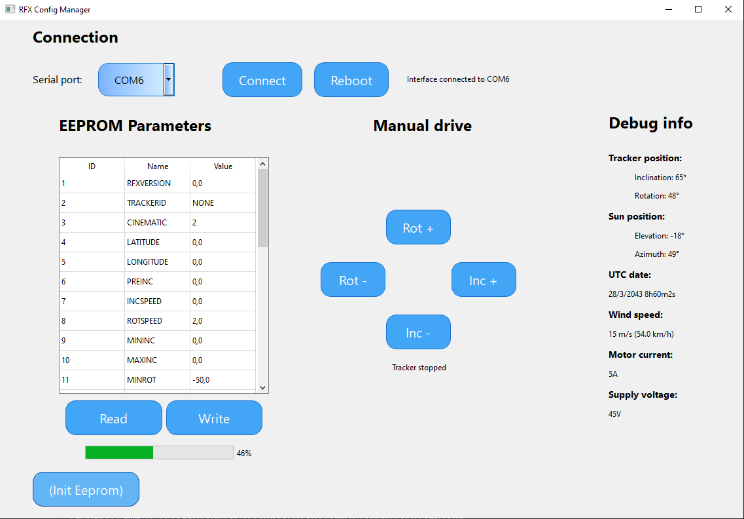
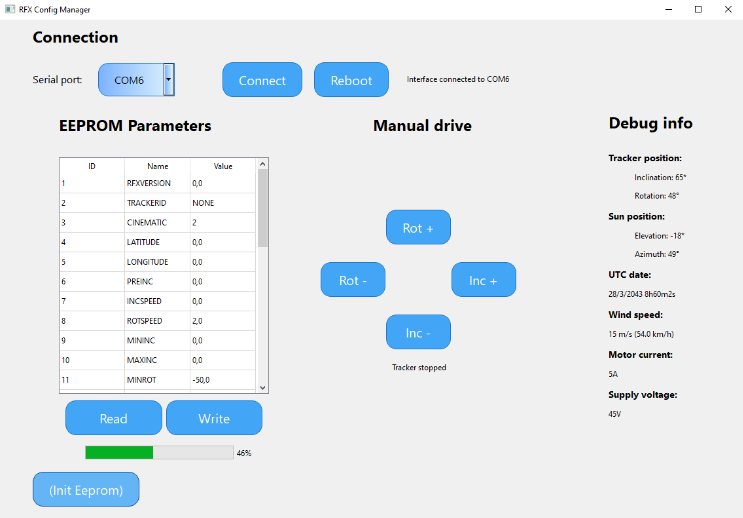
Polish copy across mission pages and fix Insolem screenshot crop.
Explain Alten tenure, add Stilog confidentiality note, refine homepage hero/CTA, remove formation CV footer link, and trim eeprom-config border artifacts.

diff --git a/index.html b/index.html
@@ -112,18 +112,17 @@
         </div>
       </div>
       <p class="lede" data-fr>
-        Diplômé ENSEM Nancy et University of Cincinnati. Dernière mission chez Stilog (Safran).
-        Actuellement en césure pour des projets perso, notamment&nbsp;: mon app
-        <a href="./pages/beatonstep.html">BeatOnStep</a>.
+        Diplômé ENSEM Nancy et University of Cincinnati. Dernière mission chez Stilog pour Safran.
+        Actuellement en césure pour des projets perso, dont BeatOnStep — app mobile iOS / Android.
       </p>
       <p class="lede" data-en>
-        Graduate of ENSEM Nancy and the University of Cincinnati. Last role at Stilog (Safran).
-        Currently on a gap year for personal projects, notably my
-        <a href="./pages/beatonstep.html">BeatOnStep</a> app.
+        Graduate of ENSEM Nancy and the University of Cincinnati. Last role at Stilog for Safran.
+        Currently on a gap year for personal projects, including BeatOnStep — an iOS / Android app.
       </p>
       <div class="cta-row">
         <a class="btn btn-solid" href="#contact" data-fr>Me contacter</a>
         <a class="btn btn-solid" href="#contact" data-en>Get in touch</a>
+        <a class="btn btn-line" href="./pages/beatonstep.html">BeatOnStep →</a>
       </div>
       <p class="hero-meta">
         <span data-fr>La Ciotat · France</span>

diff --git a/pages/alten.html b/pages/alten.html
@@ -145,6 +145,17 @@
           Hybrid role · Toulouse. My scope: STM32 embedded software, battery drivers,
           and streaming model outputs to a web interface (socket).
         </p>
+        <p data-fr>
+          <strong>Septembre — décembre 2023 :</strong> j’ai quitté Alten après une approche d’un chasseur
+          de têtes pour rejoindre <a href="./stilog.html">Stilog</a>. Le projet m’intéressait davantage
+          (logiciel scientifique pour Safran), et aucune visibilité sur un projet suivant ne se
+          dessinait chez Alten.
+        </p>
+        <p data-en>
+          <strong>September — December 2023:</strong> I left Alten after a headhunter reached out
+          about <a href="./stilog.html">Stilog</a>. That role was a stronger fit (scientific software
+          for Safran), and there was no clear follow-on project in sight at Alten.
+        </p>
       </section>
     </div>
 

diff --git a/pages/stilog.html b/pages/stilog.html
@@ -132,6 +132,12 @@
           calculation outputs feed sizing of new turbomachinery. I also shipped modules on
           other workstreams — job queues, curve smoothing, section editing, and blade fatigue analysis.
         </p>
+        <p class="muted" data-fr>
+          Je ne peux pas entrer davantage dans le détail sur cette page : la confidentialité client m’y oblige.
+        </p>
+        <p class="muted" data-en>
+          I can’t go into further detail on this page — client confidentiality applies.
+        </p>
       </section>
     </div>
 

diff --git a/pages/education.html b/pages/education.html
@@ -593,8 +593,6 @@
         <div class="contact-row">
           <a class="contact-item" href="../#formation" data-fr>← Accueil</a>
           <a class="contact-item" href="../#formation" data-en>← Home</a>
-          <a class="contact-item" href="../cv/CV_Orset.pdf" download data-fr>CV</a>
-          <a class="contact-item" href="../cv/Resume_orset.pdf" download data-en>Resume</a>
         </div>
       </section>
     </div>

diff --git a/pages/insolem.html b/pages/insolem.html
@@ -243,8 +243,8 @@
         <figure class="feature-split-media">
           <img
             src="../images/insolem/eeprom-config.png"
-            width="1200"
-            height="750"
+            width="743"
+            height="518"
             alt="RFX Config Manager — paramètres EEPROM et pilotage manuel du tracker"
             loading="lazy"
           />
